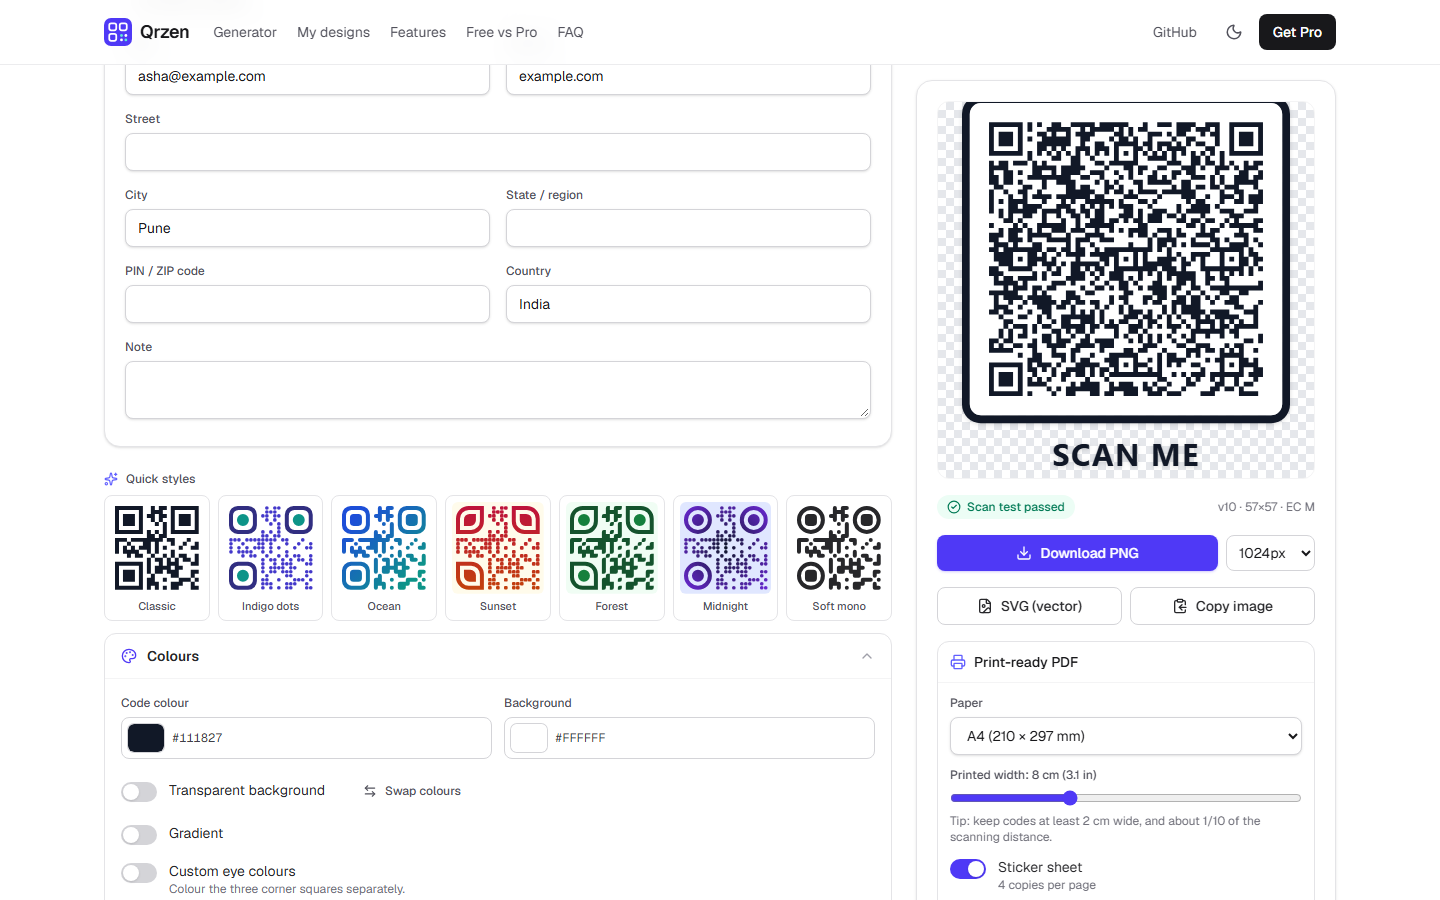
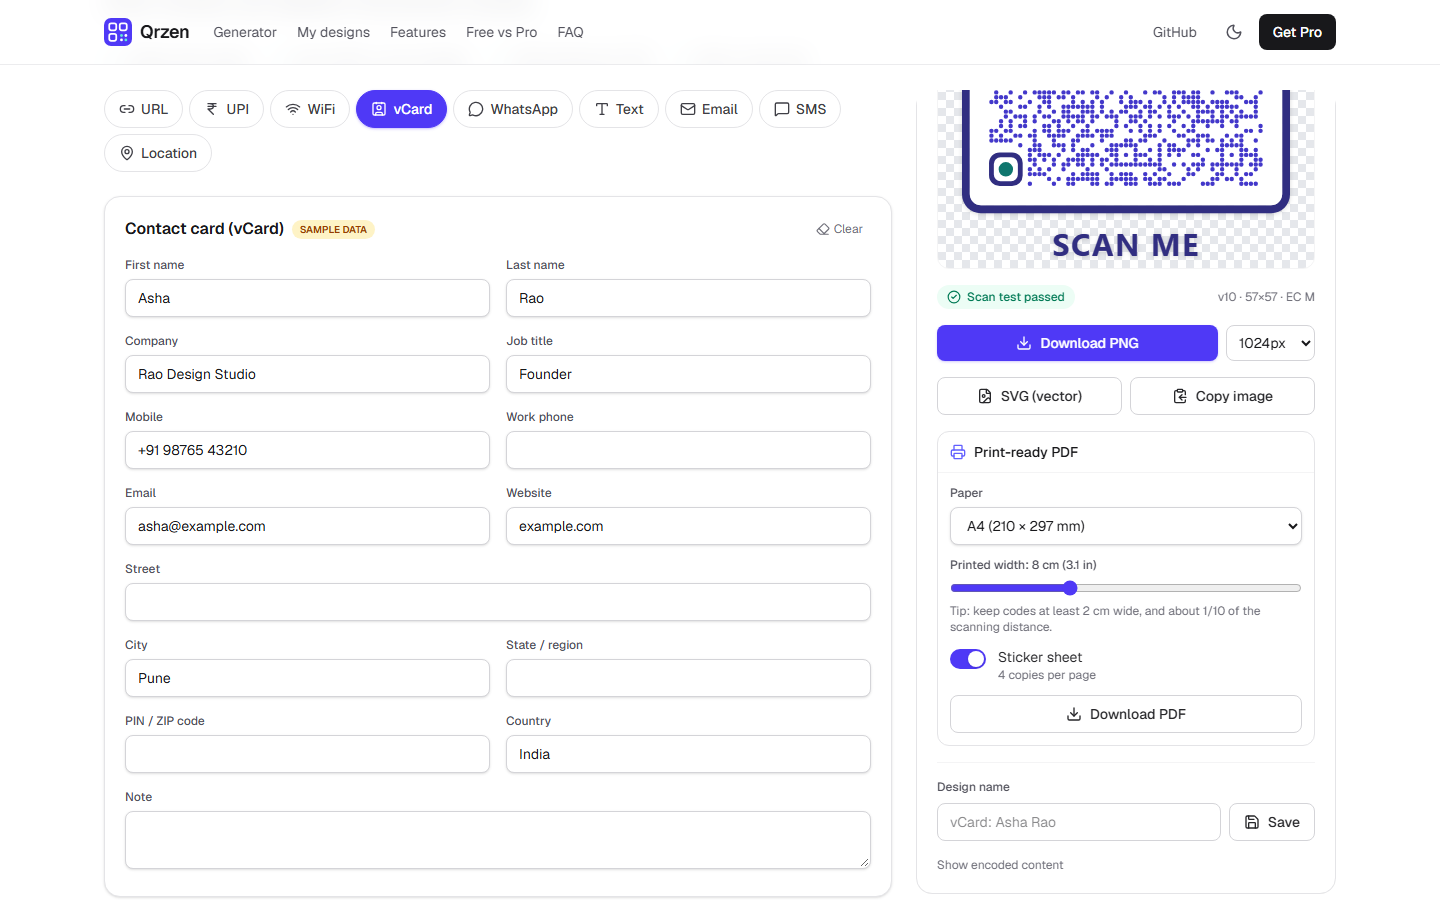
Scrollable sticky preview column; screenshots of the live demo

diff --git a/src/components/Generator.tsx b/src/components/Generator.tsx
@@ -216,7 +216,7 @@ export default function Generator({ initialType }: { initialType?: QrType }) {
         </div>
 
         {/* Preview + export (right column, sticky on desktop) */}
-        <aside className="lg:sticky lg:top-20 lg:col-start-2 lg:row-span-2 lg:row-start-1 lg:self-start">
+        <aside className="lg:sticky lg:top-20 lg:col-start-2 lg:row-span-2 lg:row-start-1 lg:max-h-[calc(100vh-6rem)] lg:self-start lg:overflow-y-auto lg:overscroll-contain lg:rounded-2xl">
           <div className="space-y-4 rounded-2xl border border-zinc-200 bg-white p-5 shadow-sm dark:border-zinc-800 dark:bg-zinc-900/60">
             <div className="checker relative flex aspect-square items-center justify-center overflow-hidden rounded-xl border border-zinc-100 p-6 dark:border-zinc-800">
               {preview ? (
